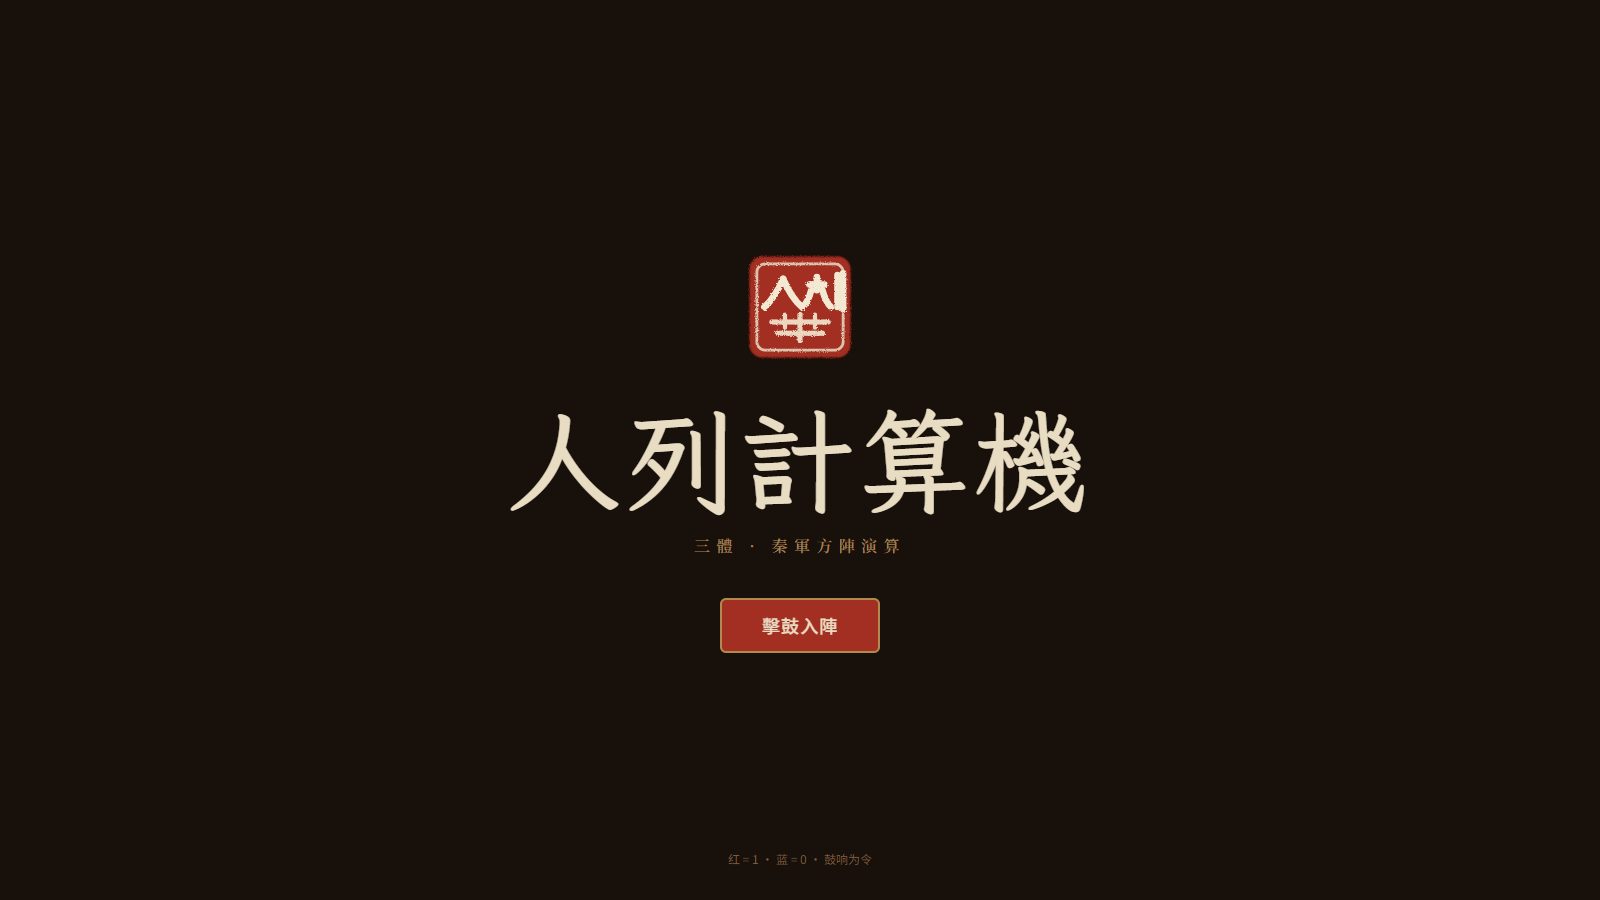
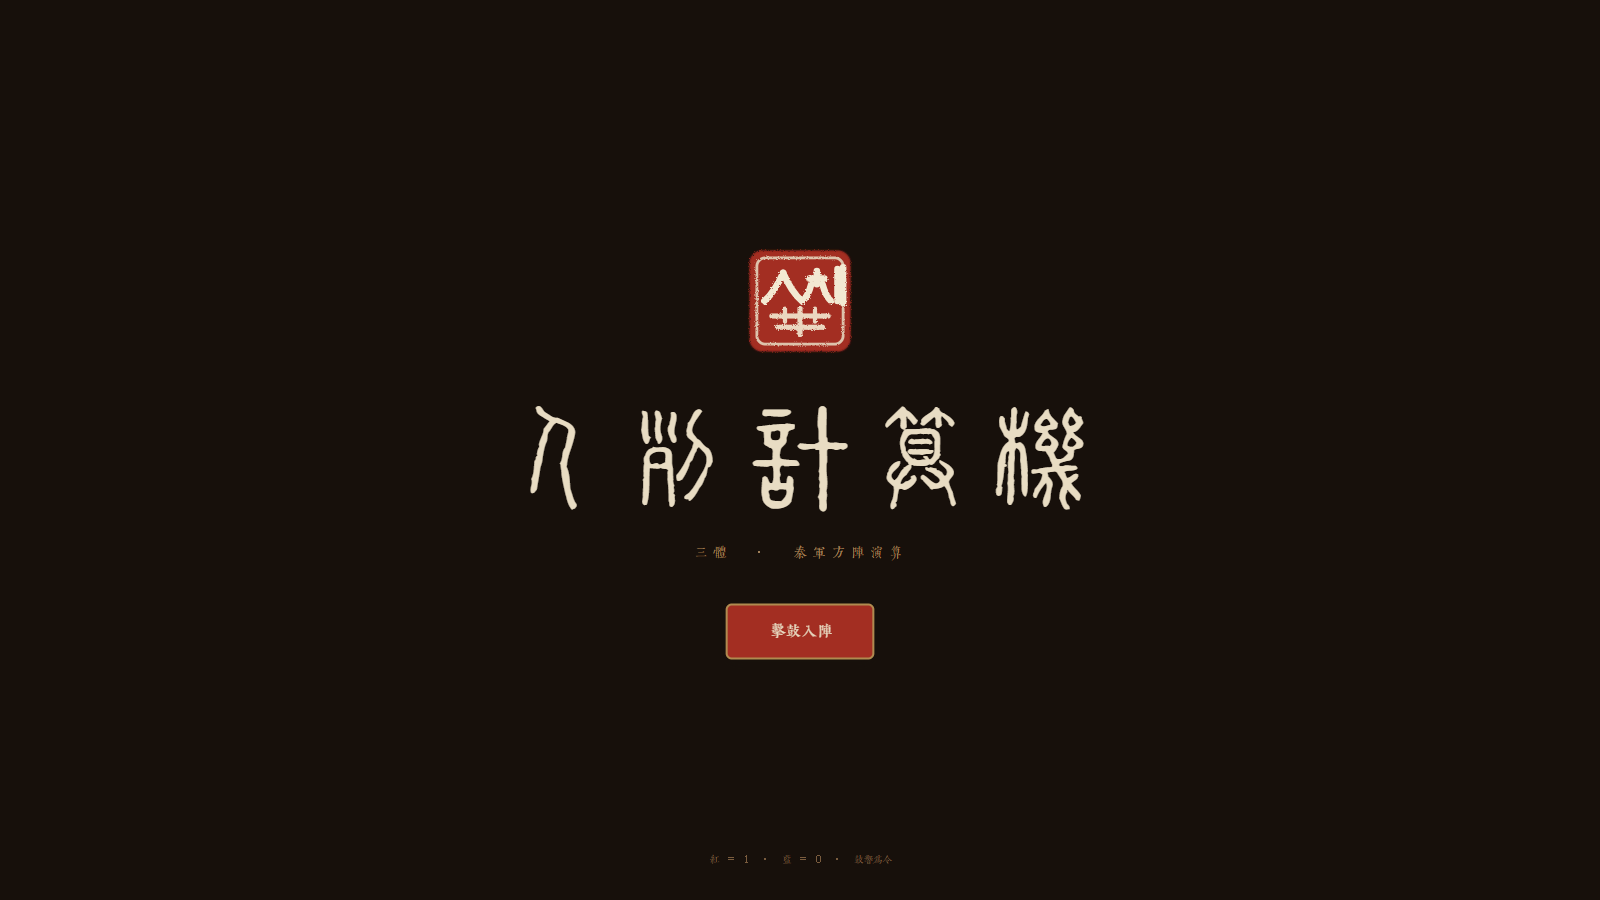
Reshoot README formation shots for v1.2 fonts and CPU field, and restyle the docs around the new captures.

diff --git a/README.md b/README.md
@@ -1,83 +1,64 @@
+![演算场全景：说文解字小篆标题，十位军令九百三十二卒持红蓝旗](docs/screenshots/01-yard.png)
+
 <p align="center">
-  <img src="app/public/logo-seal.svg" width="88" alt="人列印章" />
+  <img src="app/public/logo-seal.svg" width="52" alt="人列印章" /><br/>
+  <sub>十位军令 · 九百三十二卒 · 鼓点翻旗</sub>
 </p>
 
-<h1 align="center">人列计算机</h1>
+# 人列计算机
 
-<p align="center"><strong>三体 · 人列计算机 3D 模拟器</strong></p>
-
-<p align="center">
-  每位士兵是一扇逻辑门。红旗 = 1，蓝旗 = 0。<br/>
-  鼓点一响，全阵同时翻旗，把 <code>(A + B) × C</code> 算完。
-</p>
+《三体》里，秦始皇用三千万士兵组成人列计算机。这里把它缩进浏览器：每位士兵是一扇逻辑门，红旗 = 1，蓝旗 = 0。鼓点一响，全阵同时翻旗，把 `(A + B) × C` 算完。
 
 <p align="center">
-  <a href="https://santi.ok.kimi.link"><strong>打开演算场</strong></a>
+  <a href="https://suifei.github.io/santi-human-computer/"><strong>打开演算场</strong></a>
   ·
-  <a href="https://suifei.github.io/santi-human-computer/">GitHub Pages</a>
+  <a href="https://santi.ok.kimi.link">kimi.link</a>
   ·
-  <a href="https://santi.ok.kimi.link/principle">原理</a>
+  <a href="https://github.com/suifei/santi-human-computer/releases/tag/v1.2">v1.2</a>
   ·
-  <a href="https://santi.ok.kimi.link/formation">阵图</a>
+  <a href="https://suifei.github.io/santi-human-computer/principle">原理</a>
+  ·
+  <a href="https://suifei.github.io/santi-human-computer/formation">阵图</a>
 </p>
 
 <p align="center">
-  <strong>直接访问：<a href="https://santi.ok.kimi.link">https://santi.ok.kimi.link</a></strong><br/>
-  <strong>GitHub Pages：<a href="https://suifei.github.io/santi-human-computer/">https://suifei.github.io/santi-human-computer/</a></strong>
-</p>
-
-<p align="center">
+  <a href="https://github.com/suifei/santi-human-computer/releases/tag/v1.2"><img alt="v1.2" src="https://img.shields.io/github/v/release/suifei/santi-human-computer?label=release&color=A32E22" /></a>
   <img alt="932 门" src="https://img.shields.io/badge/士兵-932-A32E22" />
   <img alt="10 位" src="https://img.shields.io/badge/位宽-10bit-B08A4F" />
-  <img alt="React" src="https://img.shields.io/badge/React-19-A32E22" />
-  <img alt="Three.js" src="https://img.shields.io/badge/Three.js-0.185-B08A4F" />
   <img alt="pages" src="https://img.shields.io/github/actions/workflow/status/suifei/santi-human-computer/deploy-pages.yml?label=GitHub%20Pages" />
 </p>
 
-![入阵页：繁体标题「人列計算機」](docs/screenshots/00-loading.png)
+标题「人列計算機」用说文解字小篆；界面与正文用黄令东齐伋体。士兵是逻辑门，旗帜是真值——没有「JS 先算完再回放」。
 
-![演算场：注入列机位，秦兵持红蓝旗](docs/screenshots/01-yard.png)
+## 在线演示
 
----
+| 页面 | GitHub Pages | kimi.link |
+| --- | --- | --- |
+| 演算场 | https://suifei.github.io/santi-human-computer/ | https://santi.ok.kimi.link |
+| 原理 | https://suifei.github.io/santi-human-computer/principle | https://santi.ok.kimi.link/principle |
+| 阵图 | https://suifei.github.io/santi-human-computer/formation | https://santi.ok.kimi.link/formation |
 
-## 这是什么
+左键旋转、右键平移、滚轮缩放；点士兵看指令卡。`空格` 击鼓，`1`–`5` 换机位，`F` 跟随信号。横屏更好看。
 
-《三体》里，秦始皇用三千万士兵组成人列计算机。这里把它缩成一座可点、可听、可算的操场：
+## 默认军令
 
-- **932 名秦兵**，每人一张指令卡：门牌号、门型（AND / OR / XOR / NOT）、两名上游
-- **真实门级网表**：10 位行波全加器 + 移位相加乘法器，默认演算 `(1013 + 1012) × 1001 = 2027025`
-- **鼓点节拍**：一拍一层，可播放 / 暂停 / 单步 / 调速；连续三快拍复位全员蓝旗
-- **点击士兵**弹出指令卡；相机可环绕、俯视、跟随信号
+无符号 **10 位** `(A + B) × C`：**932 门 / 62 拍 / 21 位输出**。例 `(1013 + 1012) × 1001 = 2027025`。甲乙丙各 0–1023。注入后击鼓，红蓝旗从南往北翻到输出手。
 
-输入 A、B、C 各 0–1023。注入后击鼓，看红蓝旗从南往北翻到输出手。
+位宽可选 10 / 16 / 32；军令最多 3 个二元运算，输出不超过 65 位。一条表达式铺一张专用网表（`A+B`、`A×B`、`(A+B)×C` …）。
+
+信号南 → 北：输入手 001–030 → 加法阵 → 部分积 → 移位累加 → 输出手 901–921。DONE 旗举红即算完。
 
 ![演算场俯瞰：932 人按网表布阵](docs/screenshots/01-yard-top.png)
 
-推送到 `main` 会自动构建静态站点并发布到 GitHub Pages（与 kimi.link 同一份前端）。
+## 程序档
 
-## 三个入口
+一张固定 CPU：寄存器、加减乘除、比较**同时列阵**。指令只激活对应部件，不按语句换整支军队。`(A+B)*C` 拆成微操作：先加再乘。10 位 **2266 门**；比较 / 加 / 减三列贴中，乘与除并排在南。
 
-| 页面 | kimi.link | GitHub Pages |
-| --- | --- | --- |
-| 演算场 | https://santi.ok.kimi.link | https://suifei.github.io/santi-human-computer/ |
-| 原理 | https://santi.ok.kimi.link/principle | https://suifei.github.io/santi-human-computer/principle |
-| 阵图 | https://santi.ok.kimi.link/formation | https://suifei.github.io/santi-human-computer/formation |
+写赋值、`if`、`while`；值仍由士兵翻旗算出。循环请用较小的乙 B。
 
-![原理页](docs/screenshots/02-principle.png)
+![程序档：2266 门固定 CPU 人海](docs/screenshots/04-program.png)
 
-![阵图页](docs/screenshots/03-formation.png)
-
-## 演算场操作
-
-| 操作 | 作用 |
-| --- | --- |
-| 左键拖拽 / 右键平移 / 滚轮 | 旋转、平移、缩放相机 |
-| 点击士兵 | 查看指令卡（Esc 关闭） |
-| `空格` | 击鼓 / 暂停 |
-| `1`–`5` | 切换机位 |
-| `F` | 跟随信号 |
-
-横屏更好看。首次交互后才有鼓声。
+![程序档近景：秦卒持「零」旗](docs/screenshots/05-program-input.png)
 
 ## 本地运行
 
@@ -89,7 +70,7 @@ npm install
 npm run dev
 ```
 
-浏览器打开 http://localhost:3000 （与线上同一套页面）。
+浏览器打开 http://localhost:3000（与线上同一套页面）。端口占用时可 `npm run dev -- --host --port 5175`。
 
 ```bash
 npm run build      # 类型检查 + 生产构建
@@ -102,22 +83,10 @@ npm run preview    # 预览 dist
 npm install --replace-registry-host=always --registry https://registry.npmmirror.com
 ```
 
-## 电路怎么铺
+网表在 `app/src/sim/netlist.ts`，与 DOM / Three 解耦。`npm run verify:netlist` 抽检默认编制；`npm run verify:program` 用同一张 CPU 网表抽检程序档。
 
-信号南 → 北，按层传播。默认演示 `(A + B) × C`：
+## 版本
 
-1. **输入手** 001–030：A / B / C 各 10 位，红蓝旗即二进制
-2. **加法阵** 101–150：10 个全加器串进位，得到 S = A + B
-3. **部分积阵** 201–310：`PP[j][i] = S[i] AND C[j]`
-4. **累加阵**：9 条移位累加带，把部分积加总
-5. **输出手** 901–921：21 位结果；DONE 旗举红即算完
+当前发布 [v1.2](https://github.com/suifei/santi-human-computer/releases/tag/v1.2)。推送到 `main` 会自动构建并发布到 GitHub Pages。
 
-全加器 5 门 4 层：`XOR1(A,B)`、`AND1(A,B)` → `XOR2`（和）/ `AND2` → `OR`（进位）。
-
-网表在 `app/src/sim/netlist.ts`，与 DOM / Three 解耦，可用 `npm run verify:netlist` 对照 JS 原生 `(A+B)*C` 抽检。
-
-## 技术栈
-
-Vite 7 · React 19 · TypeScript · Three.js / React Three Fiber · Zustand · Tailwind
-
-士兵用 InstancedMesh 画，932 人同一批绘制。GitHub Pages 由 `.github/workflows/deploy-pages.yml` 在每次 `main` 推送后自动发布。
+Vite 7 · React 19 · TypeScript · Three.js / React Three Fiber · Zustand · Tailwind。人与旗共用一套 InstancedMesh，下标即 `gate.index`。默认 932 人一批绘制；程序档 10 位 2266 人同样一批。

diff --git a/app/README.md b/app/README.md
@@ -1,4 +1,12 @@
-开发目录。仓库说明、在线地址与本地运行见根目录 [README.md](../README.md)。
+开发目录。仓库说明、截图与在线演示见根目录 [README.md](../README.md)。
 
-- kimi.link：https://santi.ok.kimi.link
+```bash
+npm install
+npm run dev
+```
+
+浏览器打开 http://localhost:3000（Vite 默认端口）。占用时可加 `-- --host --port 5175`。
+
 - GitHub Pages：https://suifei.github.io/santi-human-computer/
+- 发布：[v1.2](https://github.com/suifei/santi-human-computer/releases/tag/v1.2)
+- kimi.link：https://santi.ok.kimi.link
